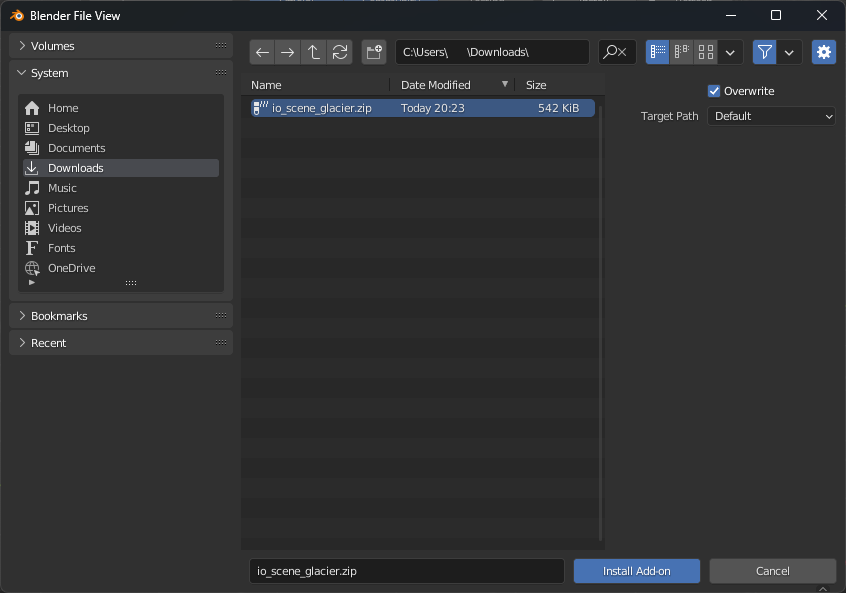
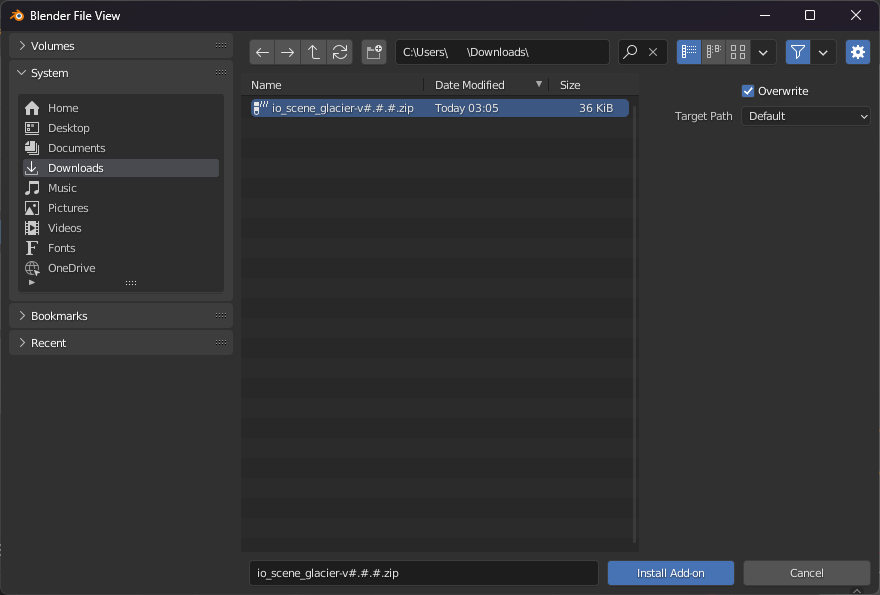
Update Blender Add-on installation instructions

diff --git a/docs/blender/installation.md b/docs/blender/installation.md
@@ -7,7 +7,7 @@ description: Installation instructions for the Glacier 2 Blender Add-on
 -   Download the Add-on: **[io_scene_glacier](https://github.com/glacier-modding/io_scene_glacier/releases/latest/download/io_scene_glacier-v0.1.1.zip)**.
 -   Install the Add-on in Blender like so:
     -   Go to _Edit > Preferences > Add-ons_.
-    -   Press the _Install…_ button and use the File Browser to select `io_scene_glacier.zip` and then press the `Install Add-on` button.
+    -   Press the _Install…_ button and use the File Browser to select `io_scene_glacier-v#.#.#.zip` and then press the `Install Add-on` button.
         ![Screenshot of Blender's Add-on installation screen](../assets/blender/installation/blender_add-on_installation.png)
     -   Once complete you should now find an Add-on called `Glacier 2 Engine Tools` in Blender's Add-ons screen.
         ![Screenshot of Blender's Add-on screen](../assets/blender/installation/blender_add-ons_screen.png)
